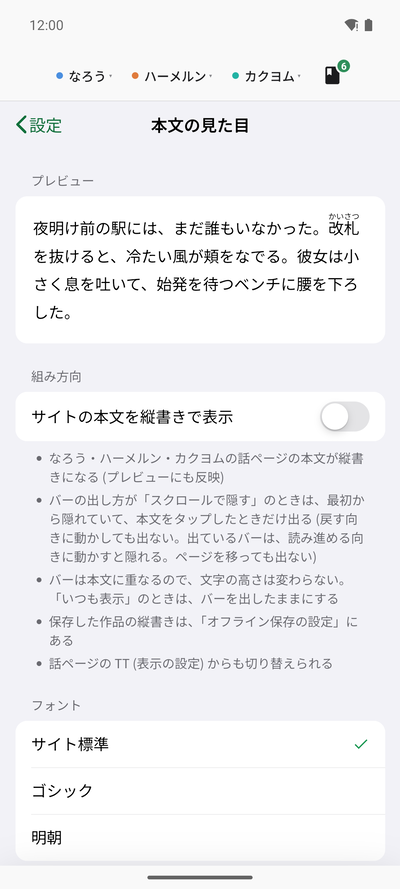
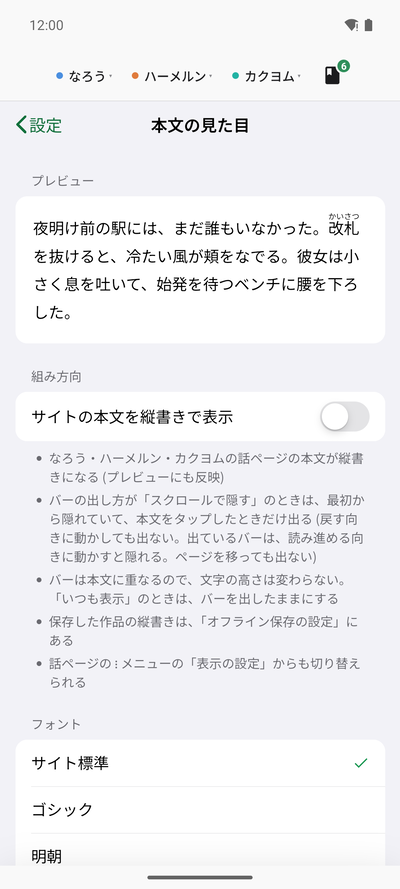
v1.3.1: 設定「本文の見た目」の説明の言い方を直した

Changed region(s): [[0.06, 0.7593, 0.27, 0.9719], [0.27, 0.7289, 0.9, 0.7593]]

diff --git a/app/src/main/assets/web/settings/page-text.html b/app/src/main/assets/web/settings/page-text.html
@@ -11,7 +11,7 @@
     <li>バーの出し方が「スクロールで隠す」のときは、最初から隠れていて、本文をタップしたときだけ出る (戻す向きに動かしても出ない。出ているバーは、読み進める向きに動かすと隠れる。ページを移っても出ない)</li>
     <li>バーは本文に重なるので、文字の高さは変わらない。「いつも表示」のときは、バーを出したままにする</li>
     <li>保存した作品の縦書きは、「オフライン保存の設定」にある</li>
-    <li>話ページの TT (表示の設定) からも切り替えられる</li>
+    <li>話ページの ⋮ メニューの「表示の設定」からも切り替えられる</li>
   </ul></div>
   <div class="section-label">フォント</div>
   <div class="group" id="fontList"></div>

diff --git a/app/src/oss/assets/release-notes.md b/app/src/oss/assets/release-notes.md
@@ -19,4 +19,5 @@
 ## 直したこと
 
 - 保存まわりと、更新の確認を見直しました
+- 設定「本文の見た目」の説明の言い方を直しました
 - そのほか、いくつかの不具合を修正しました
